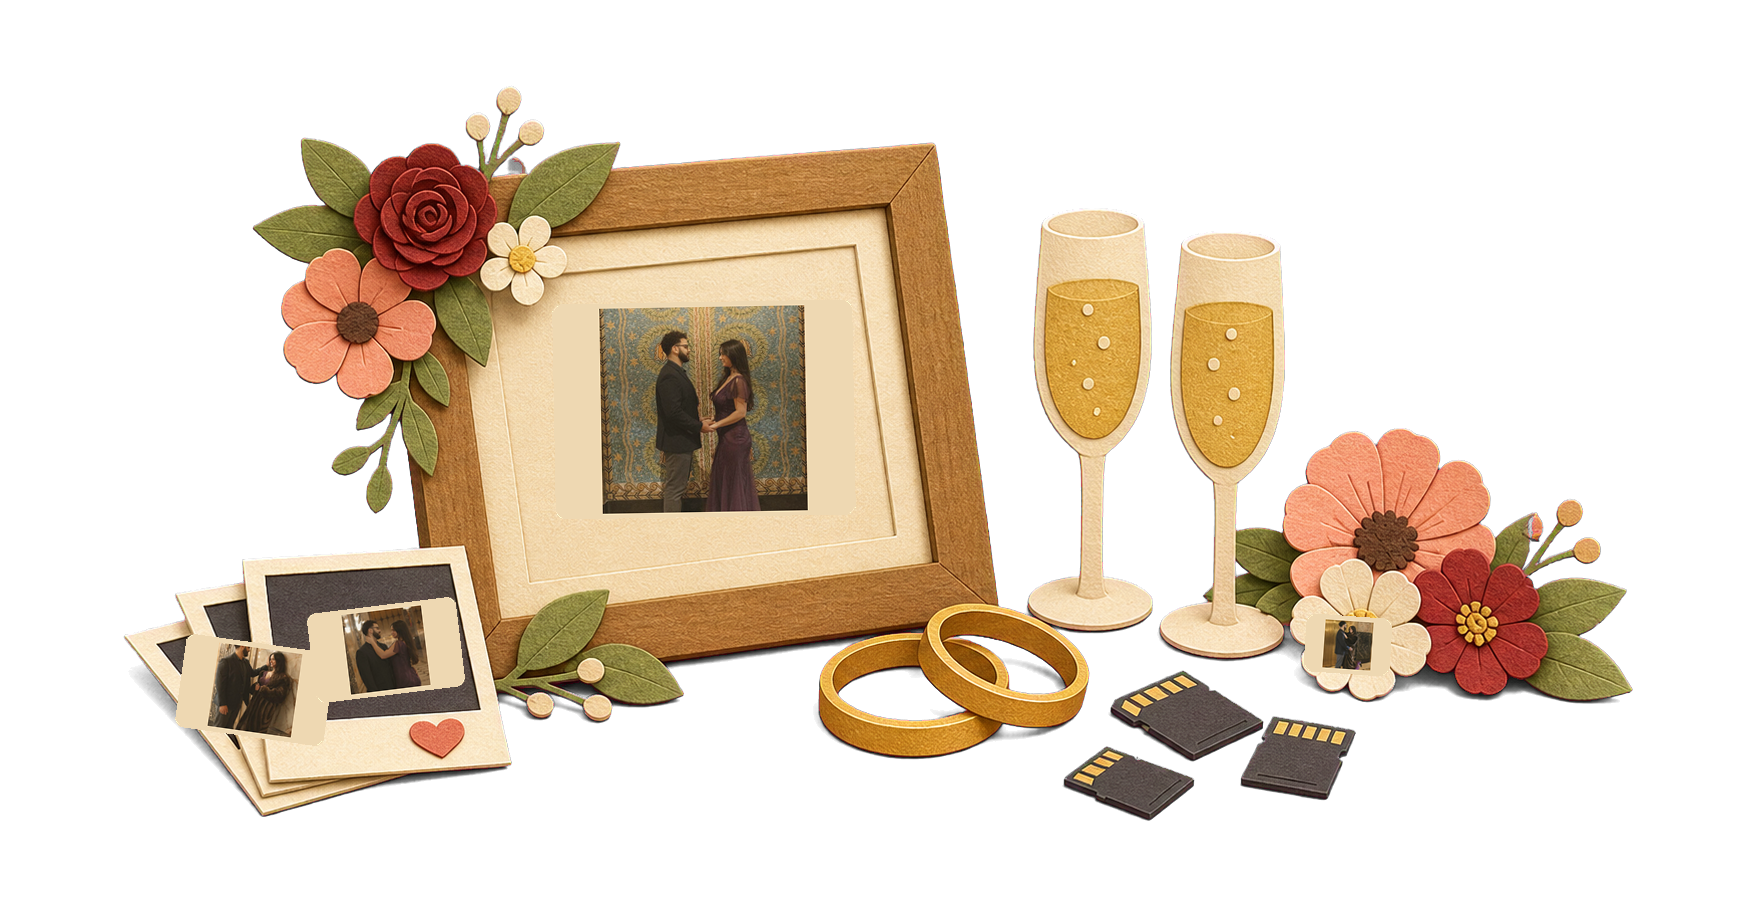
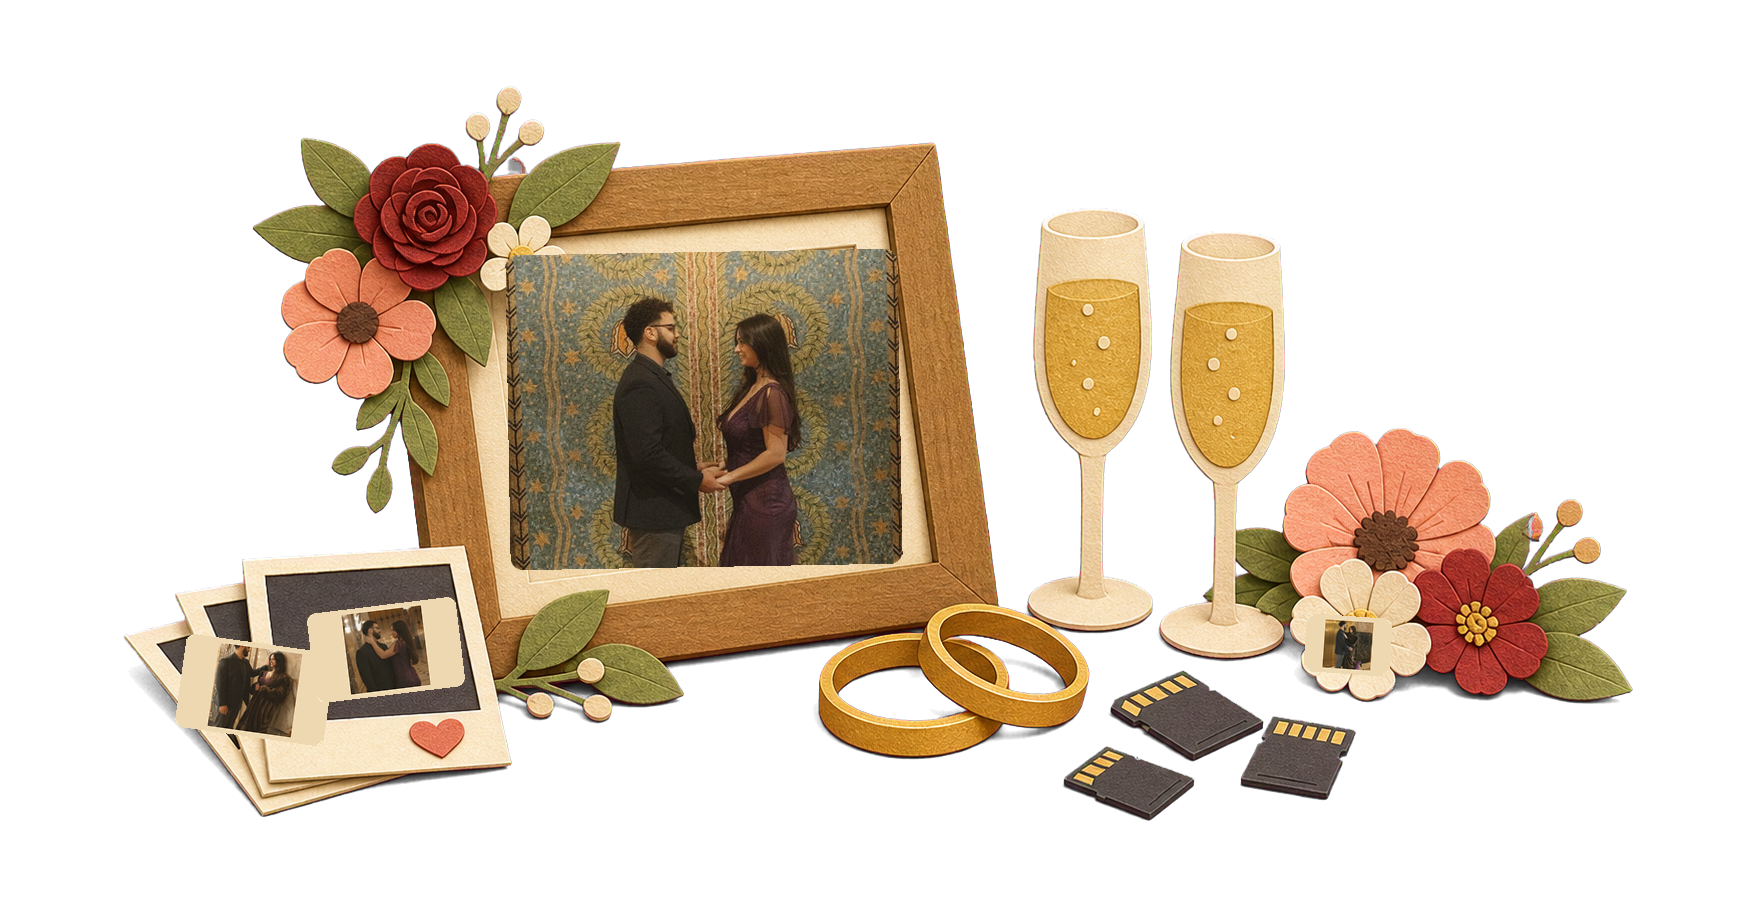
Polish wedding love letters

Changed region(s): [[0.278, 0.28, 0.5252, 0.6533]]

diff --git a/AGENTS.md b/AGENTS.md
@@ -115,6 +115,11 @@ No automated tests. Verify visually:
 - The wedding calendar must remain legible even when zoomed in: make the card and
   numbers large enough, keep all dates inside the card borders, and keep the
   wedding/bachelor-weekend highlights readable.
+- Loose floor accents in the wedding section should read as love letters, not
+  empty photo cards. Use writing lines, envelope folds, heart seals, and stamps
+  so they look intentional at scene scale.
+- Large framed wedding photos should fill the visible frame area, while small
+  stacks can use conservative crops. Avoid tiny photos floating in oversized mats.
 
 ## Deploy & review workflow
 